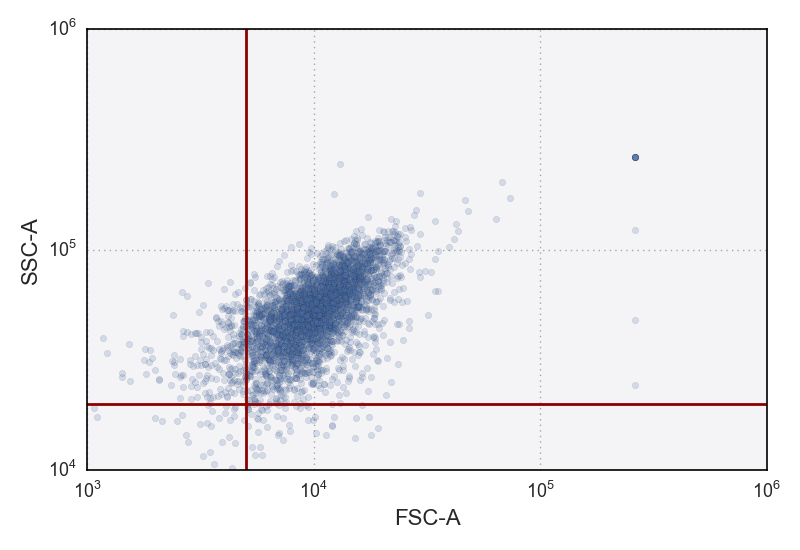
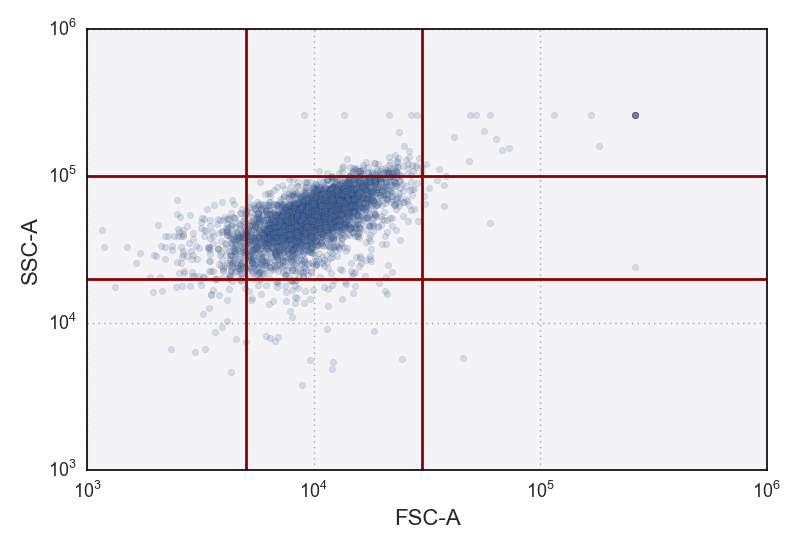
Add an upper bound scatter filtering to the data and modify the format of the plot

diff --git a/code/analysis/20160712_lacI_titration/analysis.py b/code/analysis/20160712_lacI_titration/analysis.py
@@ -34,45 +34,29 @@ rbs = df.rbs.unique()
 #=============================================================================== 
 
 # compute the theoretical repression level
-repressor_array = np.logspace(0, 3, 100)
+repressor_array = np.logspace(1, 3, 100)
 epsilon_array = np.array([-15.3, -13.9, -9.7, -17])
 operators = np.array(['O1', 'O2', 'O3', 'Oid'])
 
 colors = sns.hls_palette(len(operators), l=.3, s=.8)
 # plot theoretical curve
-plt.figure()
+plt.figure(figsize=(7, 7))
 for i, o in enumerate(operators):
     fold_change_theor = 1 / (1 + 2 * repressor_array / 5E6 \
             * np.exp(-epsilon_array[i]))
     plt.plot(repressor_array, fold_change_theor, label=o,
             color=colors[i])
-    plt.plot(df[df.operator == o].repressors, 
-            df[df.operator == o].fold_change,
-            marker='o', linewidth=0, color=colors[i])
+    plt.plot(df[(df.operator == o) & (df.rbs != 'auto') & \
+            (df.rbs != 'delta')].repressors, 
+            df[(df.operator == o) & (df.rbs != 'auto') & \
+            (df.rbs != 'delta')].fold_change,
+            marker='o', linewidth=0, color=colors[i], 
+            label=o + ' flow cytometer')
 plt.xscale('log')
 plt.yscale('log')
 plt.xlabel('repressor copy number')
 plt.ylabel('fold-change')
+plt.xlim(left=10)
 plt.legend(loc='lower left')
 plt.tight_layout()
 plt.savefig('output/lacI_titration.png')
-
-#=============================================================================== 
-
-#plt.figure()
-#for i, o in enumerate(operators):
-#    fold_change_theor = 1 / (1 + 2 * repressor_array / 5E6 \
-#            * np.exp(-epsilon_array[i]))
-#    plt.plot(repressor_array, fold_change_theor, label=o,
-#            color=colors[i])
-#    plt.plot(df[df.operator == o].repressors, 
-#            df[df.operator == o].fold_change_ctrl,
-#            marker='o', linewidth=0, color=colors[i],
-#            label=o + ' flow cytometer data')
-#plt.xscale('log')
-#plt.yscale('log')
-#plt.xlabel('repressor copy number')
-#plt.ylabel('fold-change')
-#plt.legend(loc='lower left')
-#plt.tight_layout()
-#plt.savefig('outputdir/lacI_titration_ctrl.png')

diff --git a/code/analysis/20160712_lacI_titration/processing.py b/code/analysis/20160712_lacI_titration/processing.py
@@ -39,6 +39,8 @@ rbs = np.array(['auto', 'delta', 'RBS1L', 'RBS1', 'RBS1027', 'RBS446', 'RBS1147'
 repressors = np.array([0, 0, 870, 610, 130, 62, 30, 11])
 
 #=============================================================================== 
+fsc_range = [5E3, 3E4]
+ssc_range = [2E4, 1E5]
 
 # scatter-plot of the side scattering vs the frontal scattering
 df_example = pd.read_csv(datadir + files[0])
@@ -50,10 +52,10 @@ plt.xscale('log')
 plt.yscale('log')
 plt.xlabel('FSC-A')
 plt.ylabel('SSC-A')
-#plt.axvspan(1E1, 5E3, color='red', alpha=0.3)
-#plt.axhspan(1E1, 2E4, color='red', alpha=0.3)
-plt.axvline(x=5E3, color='darkred')
-plt.axhline(y=2E4, color='darkred')
+plt.axvline(x=fsc_range[0], color='darkred')
+plt.axvline(x=fsc_range[1], color='darkred')
+plt.axhline(y=ssc_range[0], color='darkred')
+plt.axhline(y=ssc_range[1], color='darkred')
 plt.tight_layout()
 plt.savefig('output/FSC_SSC.png')
 
@@ -70,7 +72,15 @@ for i, operator in enumerate(operators):
             # read the csv file
             data = pd.read_csv(filename)
             # filter by side and front scattering
-            data = data[(data['SSC-A'] > 2E4) & (data['FSC-A'] > 5E3)]
+            data = data[(data['SSC-A'] > ssc_range[0]) & \
+                    (data['FSC-A'] > fsc_range[0]) & \
+                    (data['SSC-A'] < ssc_range[1]) & \
+                    (data['FSC-A'] < fsc_range[1])]
+            # filter by excluding the bottom 2.5 and top 97.5 percentiles
+            percentile = np.percentile(data['FITC-A'], [2.5, 97.5])
+            data = data[(data['FITC-A'] > percentile[0]) & \
+                        (data['FITC-A'] < percentile[1])]
+
            # compute the mean and append it to the data frame along the
             # operator and strain
             df = df.append([[20160712, 'mrazomej', operator, energies[i], 
